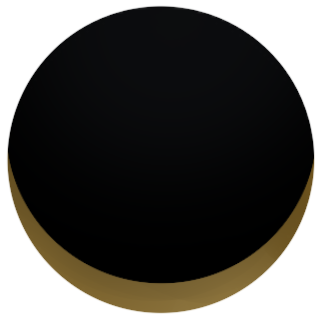
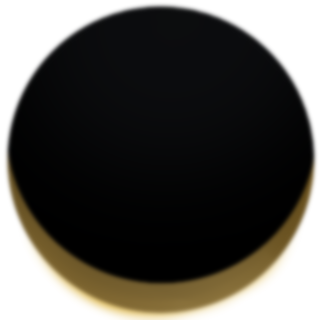
blur sprites

diff --git a/src/lib/utils/constants.ts b/src/lib/utils/constants.ts
@@ -46,10 +46,10 @@ export const BAR_STROKE_COLOR = '#464542'
 export const BAR_LINE_WIDTH = 3
 export const BAR_DROPSHADOW_OPTIONS = {
     'alpha': 0.65,
-    'blur': 3,
+    'blur': 2,
     'color': 0x1A160A,
     'offset': { x: 0, y: 10 },
-    'quality': 10
+    'quality':5 
 }
 
 export const BALL_SIZE = 18 * mobileRatio
@@ -60,10 +60,11 @@ export const BALL_COLOR = '#BFBCB3'
 export const BALL_STROKE_COLOR = '#464542'
 export const BALL_LINE_WIDTH = 3
 export const BALL_DROPSHADOW_OPTIONS = {
-    'alpha': 0.65,
+    'alpha': 0.35,
     'color': 0x1A160A,
-    'offset': { x: 0, y: 9 },
-    'quality': 10
+    'offset': { x: 0, y: 6 },
+    'quality': 5,
+    'blur': 1
 }
 
 export const ASSETS_DATA = [
